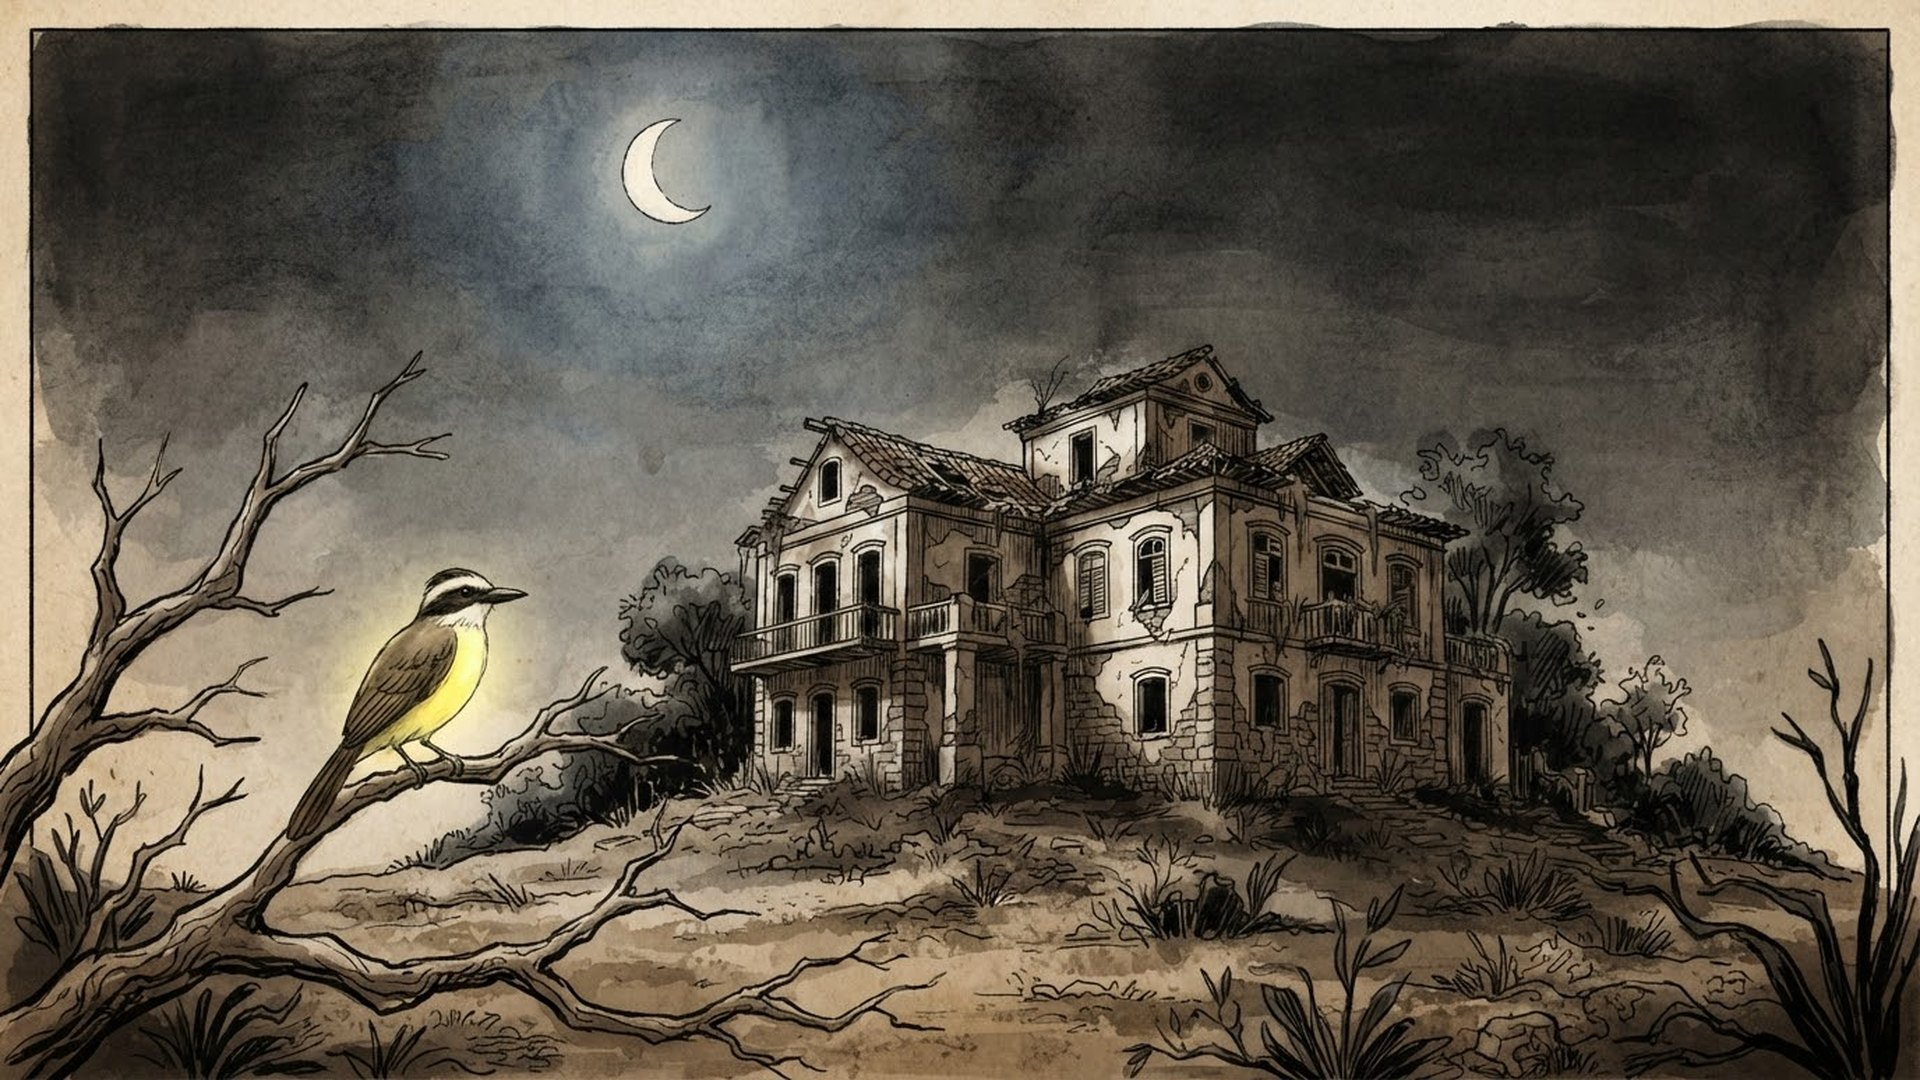
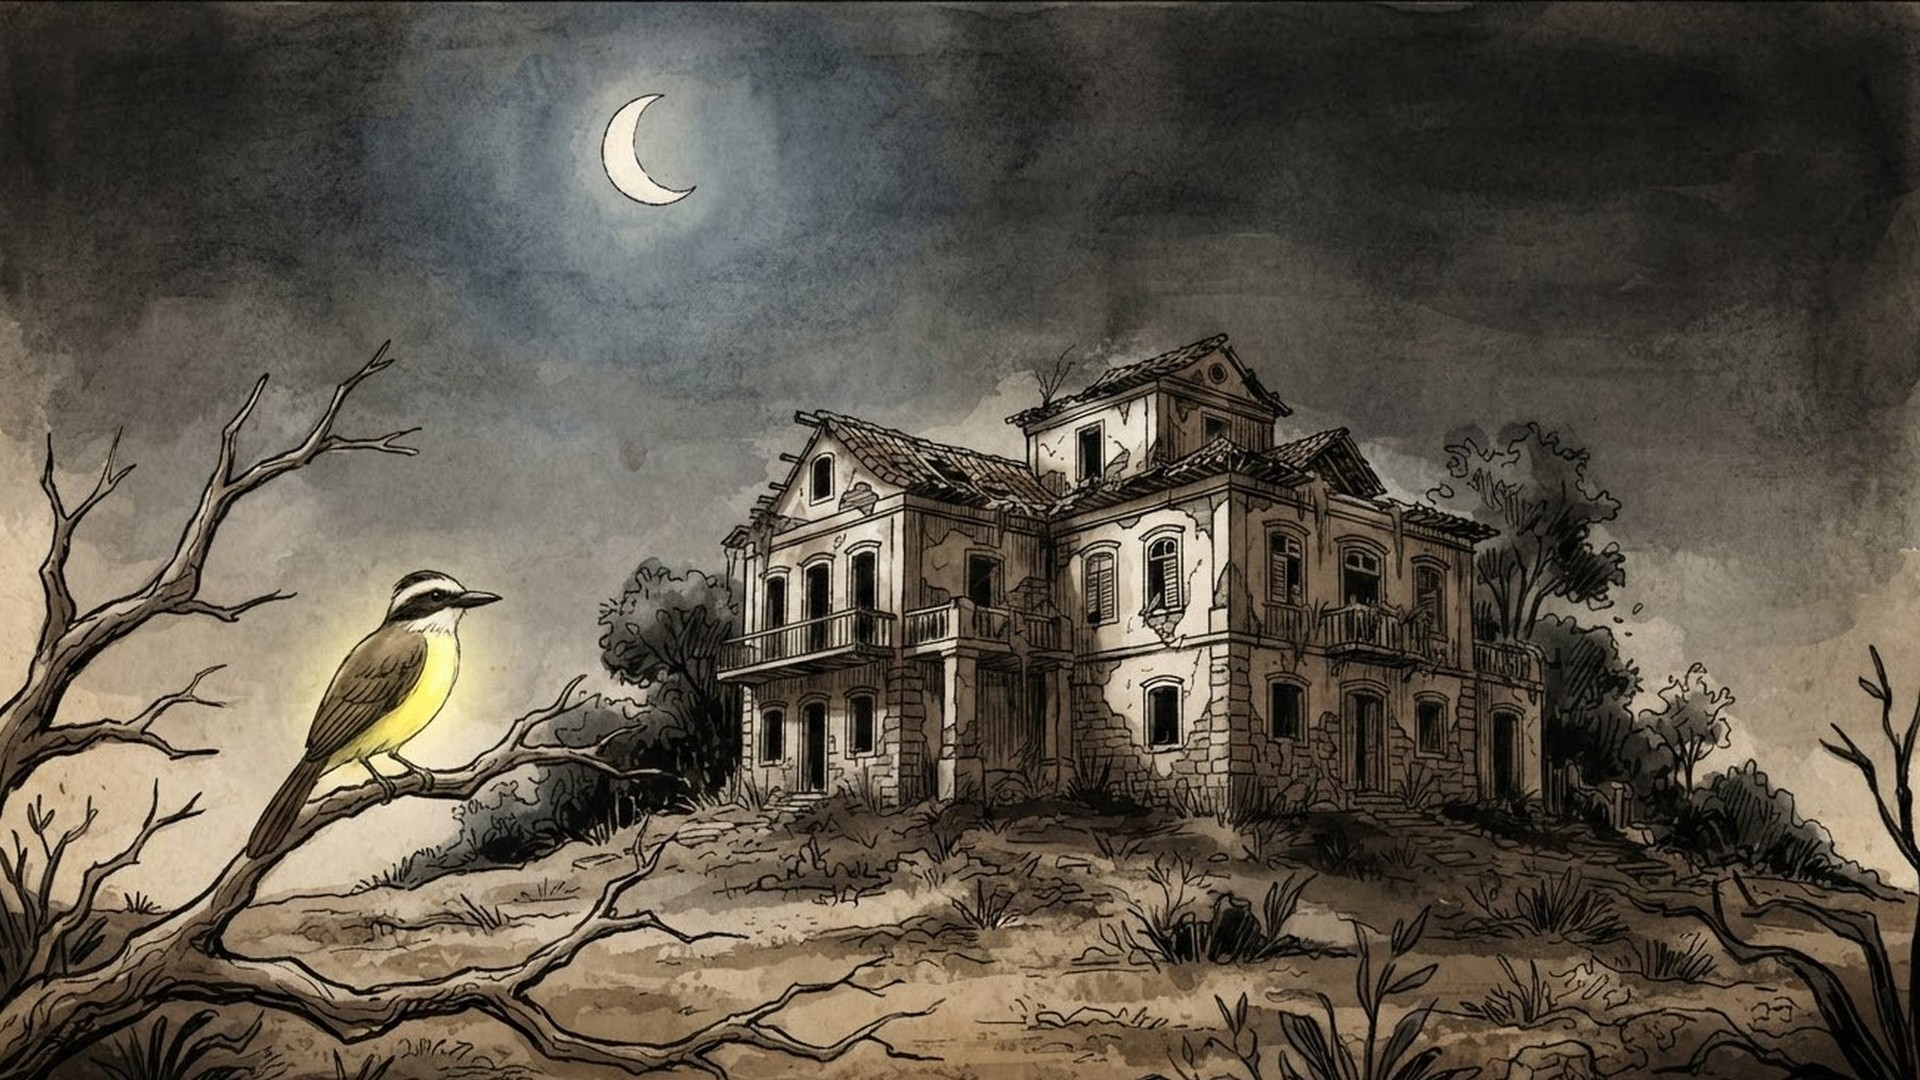
v0.4.0: confirmação antes de apagar o jogo salvo, voltar do Android no título, APK menor, toque de 48 dp, nome a giz
Claude-Session: https://claude.ai/code/session_016wJzKo3UGQUfjaTdhBeZq7

diff --git a/docs/analise-prototipo.md b/docs/analise-prototipo.md
@@ -1,77 +1,68 @@
-# Análise: BENTEVI — protótipo v0.1 (prólogo)
+# Análise: BENTEVI — protótipo 0.3.1 (prólogo + Capítulo 1)
 
-Fonte analisada: código-fonte (`scripts/`), capturas do teste automático e versão web · Objetivo: o que falta para o protótipo parecer o jogo final no celular · Data: 27/11/2026
+Fonte analisada: código-fonte (`scripts/`), 20 capturas do teste automático, APK 0.3.1 · Objetivo assumido: diagnóstico geral antes de seguir para o Capítulo 2 · Data: 27/11/2026
 
 ## Resumo executivo
 
-O protótipo v0.1 cumpre a pergunta principal: o laço fotografar → revelar → entrar em 1899 funciona de ponta a ponta, com salvamento, dicas e testes. Os três problemas mais importantes para o celular são: as áreas de toque não dão nenhum sinal sem mouse (caça ao pixel), o botão "voltar" do Android fecha o jogo e um item novo só aparece numa mensagem que some em 6 segundos. Falta também o que dá a "cara de jogo pronto": som, menu de opções, transições e mais conteúdo (hoje são 5–10 minutos).
+O protótipo já tem cara de jogo: arte final em todas as cenas, som, menu completo, telas de item, 30–40 min de jogo e testes automáticos. Os três problemas mais importantes eram: "Novo jogo" e "Capítulos → Jogar" apagavam o jogo salvo sem perguntar; o "voltar" do Android em Configurações/Capítulos/Créditos abertos pelo título caía numa cena vazia; e o APK pesava 78 MB, quase tudo em biblioteca duplicada para celulares antigos. Os três foram corrigidos na 0.4.0.
 
 ## Notas (0–10)
 
 | Dimensão | Nota | Justificativa curta |
 | --- | --- | --- |
-| Estrutura técnica | 8 | Regras separadas da interface (`logic.gd`/`content.gd`), salvamento automático, testes de regras e de ponta a ponta |
-| Navegação | 6 | Rasa e clara, mas "Menu" joga direto para o título e o "voltar" do Android fecha o app |
-| Completude funcional | 5 | Núcleo completo; sem som, sem configurações, sem seleção de capítulo, só o prólogo |
-| Usabilidade | 6 | Dicas em 3 níveis e caderno ajudam; áreas de toque invisíveis no celular e mensagens que somem |
-| Acessibilidade | 4 | Sem opção de texto grande, sem ajuda visual para achar objetos; texto claro sobre cena clara já foi corrigido |
+| Estrutura técnica | 8 | Regras separadas da interface, 124 testes de regra + passeio completo pela interface; `main.gd` (490 linhas) já pede divisão |
+| Navegação | 8 | Rasa, pausa completa, voltar do Android tratado (agora também nos painéis do título) |
+| Completude funcional | 7 | Prólogo e Capítulo 1 completos; zoom dos cinco relógios ainda desenhado em código |
+| Usabilidade | 7 | Dicas em 3 níveis, caderno, telas de item; botões estavam abaixo de 48 dp |
+| Acessibilidade | 6 | Texto grande e áreas de toque visíveis como opção; sem leitor de tela (limite do Godot) |
 
-## Estrutura
-
-- **Stack:** Godot 4.5, GDScript, renderizador Compatibility; exporta para web (sem threads) e Android (APK sem Gradle).
-- **Camadas:** `scripts/game/` (estado, conteúdo, regras, sem interface) → `scripts/main.gd` (liga interface e regras) → `scripts/ui/` (tema, cena, inventário, painéis).
-- **Persistência:** `user://bentevi_save.json`, salvo a cada ação. Sem rede, sem permissões.
-
-Mapa de telas (v0.1):
+## Mapa de telas
 
 ```
-Título ─ Continuar / Novo jogo
-  └─ Cena (bilheteria ⇄ plataforma) [1924]
-       ├─ Cadeado (modal)        ├─ Zoom do relógio (modal)
-       ├─ Álbum → Câmara escura → Cena [1899] → Sair da foto
-       ├─ Caderno (modal)        ├─ Dica (mensagem)
-       ├─ Menu → Título (perde o contexto)
-       └─ Final do prólogo → Menu / Jogar de novo
+Título ─ Continuar / Novo jogo (confirma se há jogo salvo) / Capítulos / Configurações / Créditos
+  └─ Cena (vistas em anel, 1924 ⇄ 1899)
+       ├─ Item novo / Examinar (documentos com verso)   ├─ Nome de mineiro
+       ├─ Zoom (coroa, caixão, relógios, reflexo)        ├─ Cadeado · Acertar ponteiros
+       ├─ Álbum → Câmara escura → dentro da foto → Sair da foto
+       ├─ Caderno · Dica (bem-te-vi)
+       ├─ Pausa → Continuar / Caderno / Configurações / Menu principal
+       └─ Fim de capítulo → Menu / Seguir · Jogar de novo
 ```
 
 ## Funcionalidades
 
 | Funcionalidade | Categoria | Status | Evidência |
 | --- | --- | --- | --- |
-| Fotografar, revelar e entrar em 1899 | Núcleo | Completa | `logic.gd` `take_photo`/`develop`/`enter_photo` |
-| Inventário e uso de item | Núcleo | Parcial — item novo só em mensagem; sem tela de examinar | `inventory_bar.gd`, `logic.gd` `select_item` |
-| Dicas do bem-te-vi | Suporte | Completa | `logic.gd` `next_hint` |
-| Caderno automático | Suporte | Completa | `main.gd` `open_notebook` |
-| Salvamento automático | Conta | Completa | `game_state.gd` `save_game` |
-| Som e música | Atmosfera | Ausente | — |
-| Configurações (volume, texto) | Configurações | Ausente | — |
-| Seleção de capítulo, créditos | Menu | Ausente | — |
-| 31 nomes dos mineiros (final secreto) | Conteúdo | Ausente | previsto no plano |
-| Capítulo 1 | Conteúdo | Ausente | previsto no plano |
+| Fotografar → revelar → entrar em 1899 | Núcleo | Completa | `logic.gd` |
+| Prólogo e Capítulo 1 (≈ 30–40 min) | Conteúdo | Completa | `logic_prologo.gd`, `logic_cap1.gd` |
+| Telas de item, examinar, verso de documento | Núcleo | Completa | `item_panel.gd` |
+| Nomes dos 31 mineiros (8 no protótipo) | Conteúdo | Completa — cartão era provisório (linhas) | `item_panel.gd` `_draw_placeholder` |
+| Zoom dos cinco relógios | Conteúdo | Parcial — mostradores em código, destoam da arte | `zoom_panel.gd` `_draw_clocks` |
+| Som, ambiente por época, música do menu | Atmosfera | Completa (sintetizado) | `tools/gen_audio.py` |
+| Salvamento automático, capítulos, configurações | Sistema | Completa | `game_state.gd`, `menus.gd` |
 
 ## Problemas de usabilidade
 
-| # | Problema | Onde | Sev. | Esforço | Recomendação |
+| # | Problema | Onde | Sev. | Esforço | Status 0.4.0 |
 | --- | --- | --- | --- | --- | --- |
-| 1 | Áreas de toque só mostram contorno com mouse; no celular o jogador não sabe o que é tocável | `theme_factory.gd` estilo `Hotspot` | 3 | Baixo | Feedback visual ao tocar + opção "Mostrar áreas de toque" nas configurações |
-| 2 | Botão "voltar" do Android fecha o jogo sem aviso | `project.godot` (`quit_on_go_back` padrão = sim) | 3 | Baixo | Desligar e tratar: fecha o painel aberto ou abre o menu de pausa |
-| 3 | Item novo aparece só numa mensagem de 6 s; fácil de perder | `logic.gd` (`say`) | 3 | Médio | Tela de item novo com imagem grande; tela de examinar ao tocar de novo no item |
-| 4 | Relógio da arte marca 3h00, mas o código da mala é 317 | `assets/art/estacao_1924.jpg` | 3 | Baixo | Corrigir a arte (prompt enviado) |
-| 5 | Sem som: o gênero depende de atmosfera | — | 3 | Médio | Ambiente por época, efeitos de cada ação, música do menu e controle de volume |
-| 6 | "Menu" volta ao título e perde o contexto | `main.gd` `show_title` | 2 | Baixo | Menu de pausa: continuar, caderno, configurações, menu principal |
-| 7 | Seleção do item em amarelo compete com o único acento da marca | `theme_factory.gd` `SelectedButton` | 2 | Baixo | Seleção em creme/sépia, com o item levemente elevado |
-| 8 | Bilhete e chave continuam desenhados em 1899 depois de pegos | `scene_art.gd` | 2 | Baixo | Variantes de arte por estado (prompt enviado) |
-| 9 | Troca de cena e entrada no passado sem transição | `main.gd` `refresh` | 2 | Baixo | Fade entre vistas; clarão + som ao entrar/sair da foto |
-| 10 | Texto com tamanho fixo e fonte padrão do motor | `theme_factory.gd` | 2 | Baixo | Fonte serifada com cara de época e opção "texto grande" |
-| 11 | Duração de 5–10 min não permite medir retenção | conteúdo | 2 | Alto | Capítulo 1 completo e nomes escondidos |
+| 1 | "Novo jogo" e "Capítulos → Jogar" apagam o jogo salvo sem confirmar | `menus.gd` `_on_title_choice` | 4 | Baixo | Corrigido: confirmação com o capítulo salvo |
+| 2 | "Voltar" do Android em Configurações/Capítulos/Créditos abertos pelo título fecha o painel e mostra cena vazia | `main.gd` `on_back` | 3 | Baixo | Corrigido: volta ao título |
+| 3 | APK de 78 MB (biblioteca armv7 duplicada + texturas sem compressão) | `export_presets.cfg`, `*.import` | 3 | Baixo | Corrigido: só arm64, texturas WebP 85% |
+| 4 | Botões com 96 px de altura ≈ 38 dp (abaixo de 48 dp) | `theme_factory.gd` `button` | 2 | Baixo | Corrigido: mínimo 112 px |
+| 5 | Cartão do nome do mineiro com imagem provisória | `item_panel.gd` | 2 | Baixo | Corrigido: nome a giz numa tábua |
+| 6 | Zoom dos relógios desenhado em código destoa da arte | `zoom_panel.gd` | 2 | Médio | Prompt de arte enviado |
+| 7 | Capa com margem de papel diferente das cenas | `capa.jpg` | 1 | Baixo | Corrigido |
+| 8 | Caderno mistura capítulos numa lista única | `main.gd` `open_notebook` | 1 | Médio | Backlog |
+| 9 | `main.gd` com ~490 linhas mistura HUD, modais e transições | `main.gd` | 1 | Médio | Backlog (antes do Capítulo 2) |
 
 ## Plano de ação
 
-1. **Ganhos rápidos (nesta rodada):** itens 1, 2, 6, 7, 9, 10.
-2. **Estruturais (nesta rodada):** itens 3, 5, 8 e menu com configurações, capítulos e créditos.
-3. **Oportunidades:** Capítulo 1 completo, nomes dos mineiros como colecionáveis, verso dos documentos como pista.
+1. **Feito na 0.4.0:** itens 1–5 e 7.
+2. **Próximo ciclo:** arte do zoom dos relógios (item 6); dividir `main.gd` em HUD e gerenciador de modais; caderno por capítulo.
+3. **Oportunidades:** teste com 5 jogadores medindo tempo por enigma e uso de dicas; Capítulo 2 (Botica).
 
 ## Limitações da análise
 
-- Não foi testado em aparelho Android real; desempenho e toque foram avaliados pelo código e pela versão web.
-- Leitor de tela: o Godot tem suporte limitado; não avaliado.
+- Sem aparelho real: tamanho de toque estimado para tela 1080 px de altura e ~400 ppi.
+- Desempenho em celular simples e consumo de bateria não medidos.
+- Leitor de tela não avaliado (suporte limitado no Godot).

diff --git a/README.md b/README.md
@@ -6,7 +6,13 @@ Protótipo jogável do **prólogo** e do **Capítulo 1** de BENTEVI, um jogo de 
 
 **Jogar no navegador:** https://jecal17-cmd.github.io/bentevi/ (funciona no celular, deitado)
 
-## O que tem nesta versão (0.3)
+## O que tem nesta versão (0.4)
+
+- Confirmação antes de apagar o jogo salvo; "voltar" do Android nos painéis do título volta ao título.
+- APK com cerca de metade do tamanho (só arm64, texturas WebP); botões com altura mínima de toque de 48 dp.
+- Nome dos mineiros escrito a giz; capa sem margem de papel.
+
+## Versão 0.3
 
 - 0.3.1: sem moldura nos objetos tocáveis da cena; texto da fita da coroa seguindo a curva; margens de papel cortadas das cenas para todas terem o mesmo enquadramento.
 

diff --git a/docs/backlog.md b/docs/backlog.md
@@ -11,6 +11,10 @@
 
 ## Próximo
 
+- [ ] Zoom dos cinco relógios com arte (prompt enviado em 27/11), ponteiros desenhados em código.
+- [ ] Dividir `main.gd` (HUD, modais, transições) antes do Capítulo 2.
+- [ ] Caderno separado por capítulo.
+
 - [ ] Testar o APK em aparelho Android simples (desempenho e toque).
 - [ ] Trilha sonora composta e efeitos gravados no lugar dos sons sintetizados.
 - [ ] Mais 23 nomes de mineiros nos capítulos seguintes.
